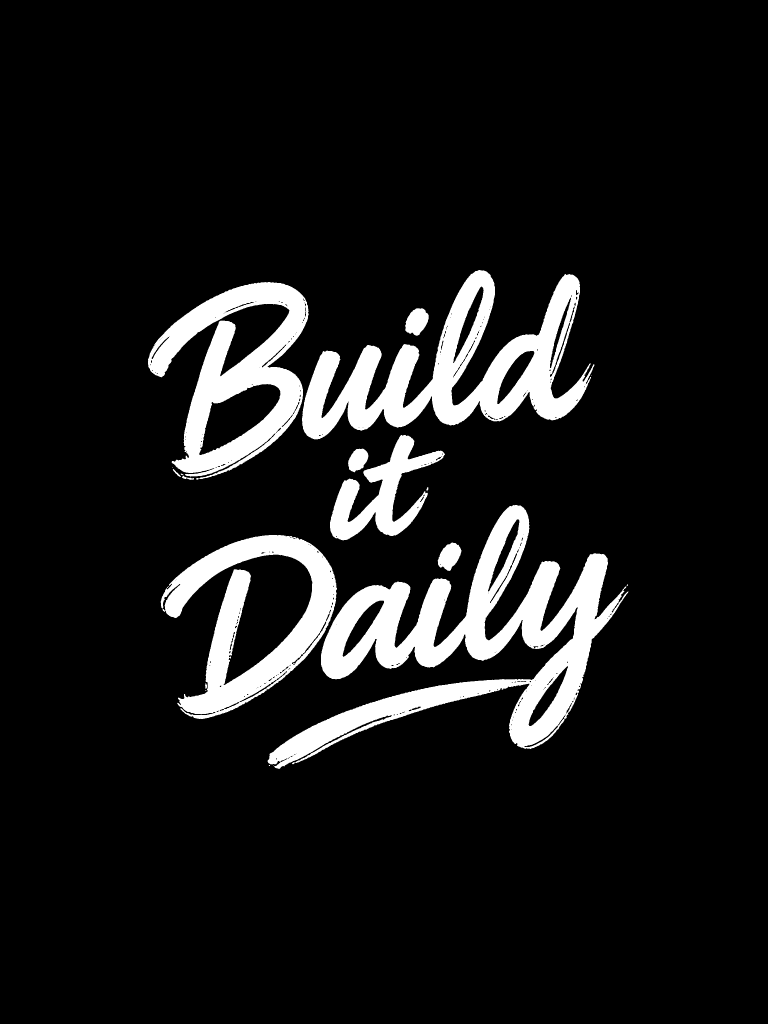
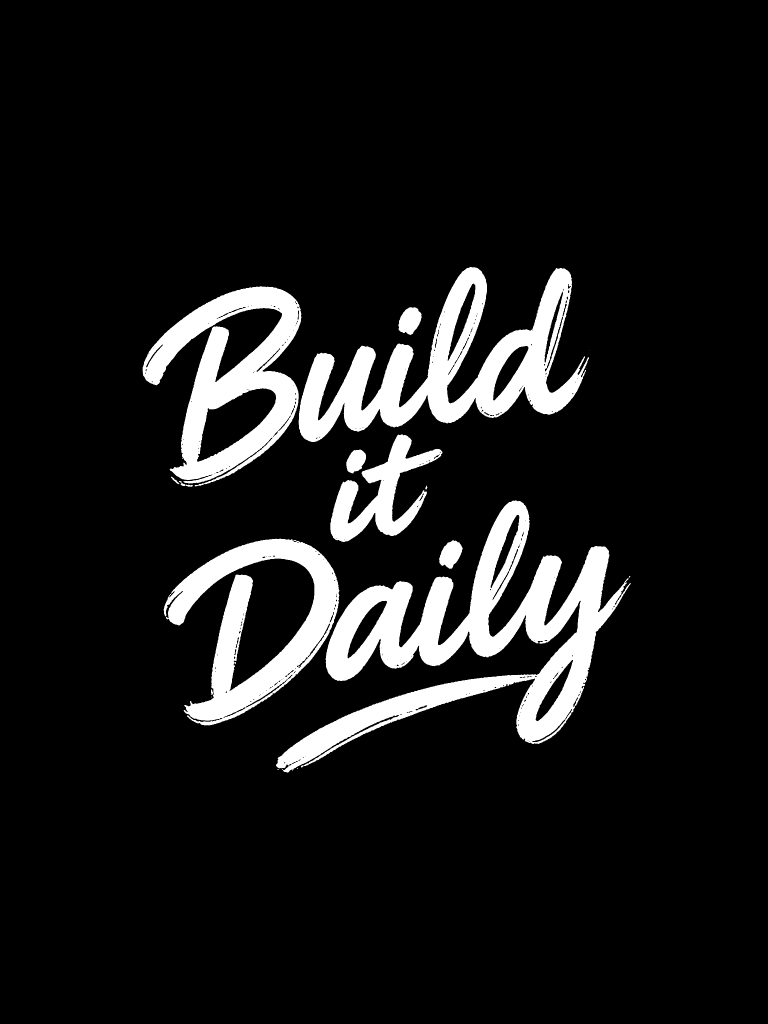
Lettering v1.2: ERNIE frasa_bentuk won (K7M+K8G clean 0/6 -> 6/6), ERNIE r1 -> r2; belajar b1.1 clean-image tie-break; 5b v1.2 SK01 re-measure (0/2 -> 2/2); standard + dashboard learning tables updated
Claude-Session: https://claude.ai/code/session_015DB7PEG43u43FyXo3Nejoh

Changed region(s): [[0.1875, 0.4688, 0.8125, 0.75], [0.2188, 0.25, 0.7812, 0.5312], [0.1875, 0.3125, 0.2188, 0.375]]

diff --git a/designs/lettering-v1/pembina.py b/designs/lettering-v1/pembina.py
@@ -27,8 +27,8 @@ DAFTAR = {
                     status="diuji: K3H, CPU, 3 seed", sumber="kad model BFL (rasmi); panduan BFL (lemah)"),
     "zturbo": dict(nama="Z-Image Turbo", bahagian="3.5", rev="r1", tarikh="2026-11-26",
                    status="diuji: K3H, CPU, 3 seed", sumber="pasukan Z-Image di Hugging Face + pe.py (rasmi)"),
-    "ernie": dict(nama="ERNIE-Image-Turbo", bahagian="3.6", rev="r1", tarikh="2026-11-26",
-                  status="diuji: K3H, CPU, 3 seed", sumber="dokumen diffusers + kad model (rasmi)"),
+    "ernie": dict(nama="ERNIE-Image-Turbo", bahagian="3.6", rev="r2", tarikh="2026-11-28",
+                  status="diuji: K3H, CPU, 3 seed; r2: K7M + K8G, CPU, 3 seed", sumber="dokumen diffusers + kad model (rasmi)"),
     "moss": dict(nama="MOSS-Image SFT + LoRA 8 langkah", bahagian="3.7", rev="r1", tarikh="2026-11-26",
                  status="diuji: K3H, CPU, 3 seed", sumber="kad model + panduan MOSS (rasmi); kad LoRA (pihak ketiga)"),
     "klein3": dict(nama="FLUX 3 Image Klein", bahagian="3.8", rev="r1", tarikh="2026-11-27",
@@ -43,7 +43,7 @@ MODEL = list(REV)
 W, H = 768, 1024
 # Ubahan CALON kitaran QC (langkah 5): hanya hidup bila dinamakan dalam PEMBINA_UJI (dipisah koma). Ubahan yang
 # berjaya ditulis balik ke aturan (rev naik) dan dibuang dari sini; yang gagal dicatat dalam standard dan dibuang.
-# Calon semasa: ernie_frasa_bentuk (K7M, K8G) (28 Nov 2026). ('ernie_kotak_positif' 28 Nov: K11N kotak 0/3 -> 3/3 tetapi K12Y 3/3 -> 0/3, kalah, dibuang.) (27 Nov 2026: 'zturbo_had_positif' pada K9B 1/3 -> 1/3 dan 'ernie_had_positif' pada K11N 2/3 -> 2/3, kalah, dibuang.) (26 Nov 2026: 'zturbo_satu_baris' diuji pada K8G, tidak berjaya, dibuang.)
+# Calon semasa: tiada. ('ernie_frasa_bentuk' 28 Nov: MENANG, ditulis ke aturan ERNIE r2.) ('ernie_kotak_positif' 28 Nov: K11N kotak 0/3 -> 3/3 tetapi K12Y 3/3 -> 0/3, kalah, dibuang.) (27 Nov 2026: 'zturbo_had_positif' pada K9B 1/3 -> 1/3 dan 'ernie_had_positif' pada K11N 2/3 -> 2/3, kalah, dibuang.) (26 Nov 2026: 'zturbo_satu_baris' diuji pada K8G, tidak berjaya, dibuang.)
 # Nama calon = <model>_<id pilihan> daripada belajar.py (KELAS), cth. zturbo_had_positif; belajar.py memutuskan menang / kalah (3.15).
 UJI = {u for u in os.environ.get("PEMBINA_UJI", "").split(",") if u}
 SATU = ["one", "two", "three", "four", "five", "six", "seven", "eight", "nine", "ten", "eleven", "twelve"]
@@ -190,8 +190,8 @@ def ernie(m):
          f"{cap(SATU[m['n'] - 1])} stacked lines in {b['bentuk']} in the center" +
          (f" that {b['condong']}" if b.get("condong") else "") + ": " + "; ".join(butir) + "."]
     s += tambahan(b)
-    if "ernie_frasa_bentuk" in UJI:  # calon belajar 3.15 (28 Nov 2026, diluluskan pengguna): huruf berus nipis / kering (K7M, K8G)
-        s.append("Every letter is drawn with a thick, heavy, fully filled stroke, never thin, scratchy or dry-brushed.")
+    # r2 (28 Nov 2026, 3.15 menang: K7M + K8G bersih 0/6 -> 6/6, lulus 6/6 -> 6/6): ayat ketebalan huruf (blok I).
+    s.append("Every letter is drawn with a thick, heavy, fully filled stroke, never thin, scratchy or dry-brushed.")
     s.append(f"Only these {SATU[m['nw'] - 1]} words, no other text, pure black and white, "
              f"{', '.join('no ' + x for x in b['tiada'])}, {b['gaya']} style, {b['margin']}.")
     return " ".join(s)

diff --git a/designs/lettering-v1/skrip/betulkan.py b/designs/lettering-v1/skrip/betulkan.py
@@ -22,7 +22,7 @@ import SK02_ruang_tepi
 import SK03_kedudukan
 import SK04_hitam_putih
 
-VERSI = "5b v1.1"
+VERSI = "5b v1.2"
 
 
 def betulkan(rgb, ruj, had=asas.HAD):
@@ -33,6 +33,15 @@ def betulkan(rgb, ruj, had=asas.HAD):
         if m is not None:
             M = m @ M
             semasa = asas.lukis(rgb, M, halus=False)
+            # 5b v1.2 (28 Nov 2026, Belajar SK: BAIKI SK01): ukur semula selepas putar dan betulkan baki, paling banyak
+            # 2 kali lagi. Ukuran pertama boleh tersasar (K7M s123 15.5 di had julat; klein3 K9B s123 12.1 -> 13.4).
+            for _ in range(2 if sk is SK01_condong else 0):
+                m2, c2 = sk.matriks(asas.ukur(semasa), ruj, had)
+                if m2 is None:
+                    break
+                M = m2 @ M
+                semasa = asas.lukis(rgb, M, halus=False)
+                cat.setdefault("ulang_putar", []).append(c2["putar_darjah"])
     ubah = any(t["jalan"] for t in tindakan.values())
     hasil = asas.lukis(rgb, M) if ubah else rgb
     hasil, tindakan["SK04"] = SK04_hitam_putih.betul(hasil, ruj, had, selepas_ubah=ubah)

diff --git a/designs/lettering-v1/belajar.py b/designs/lettering-v1/belajar.py
@@ -202,7 +202,10 @@ def stat(rows):
 
 
 def skor(rows):
-    return (sum(r["lulus"] for r in rows), sum(r["suka"] for r in rows))
+    # (lulus, ♥, bersih). Bersih = lulus tanpa kelas cacat prompt; pemecah seri supaya ubahan bagi cacat yang tidak
+    # menggagalkan imej (cth. bentuk huruf, "imej lulus; ciri gaya kad") boleh menang (pembaikan 28 Nov 2026).
+    return (sum(r["lulus"] for r in rows), sum(r["suka"] for r in rows),
+            sum(r["lulus"] and not r["kelas"] for r in rows))
 
 
 def banding(a, b):
@@ -215,7 +218,7 @@ def banding(a, b):
 
 
 def nisbah(s, n):
-    return f"{s[0]}/{n}" + (f" (♥ {s[1]})" if s[1] else "")
+    return f"{s[0]}/{n}" + (f" (♥ {s[1]})" if s[1] else "") + f", bersih {s[2]}"
 
 
 def ulasan(model, rows, ubahan):

diff --git a/docs/lettering-standard.md b/docs/lettering-standard.md
@@ -145,14 +145,15 @@ Dipakai untuk model tanpa aturan sendiri, dan sebagai pembanding dalam ujian kel
 - **Tetapan:** GGUF Q8_0, 9 langkah, guidance 0.0, tiada penambah prompt.
 - **Cacat diketahui (r1):** percikan hanya di kanan label; ruang tepi sempit (dibetulkan skrip, 5b). Rangka am juga lulus ejaan 3/3, jadi aturan ini mengemaskan hiasan, bukan ejaan.
 
-### 3.6 Aturan ERNIE-Image-Turbo (rev r1)
+### 3.6 Aturan ERNIE-Image-Turbo (rev r2)
 - **Sumber:** dokumen diffusers: penambah prompt (PE) hidup secara lalai dan "may reduce instruction-following accuracy" (rasmi). Kad model: skor teks OneIG-EN 0.9488 tanpa PE lawan 0.9666 dengan PE; GENEval keseluruhan 0.8667 tanpa PE lawan 0.8510 dengan PE (rasmi).
 - **Dua peringkat:** (a) pembina menulis prompt mentah yang pendek; (b) PE rasmi mengembangkannya; imej dijana daripada prompt yang dikembangkan.
 - **Prompt mentah, satu perenggan pendek (contoh yang lulus: 94 perkataan):**
   1. Blok A: `A black and white hand-lettering quote poster, portrait.`
   2. Blok B: `Solid black background, white lettering.`
   3. Blok C, kemudian titik bertindih, kemudian blok D + E + F sebagai senarai dipisah koma bernoktah, satu butir setiap baris, bentuk `"PERKATAAN" in <frasa bentuk huruf>`: `Five stacked lines in one tight centered block that tilts up to the right: "PATIENCE" in huge heavy condensed bold sans-serif capitals; "Builds" in large bold brush script; …`
-  4. Blok H + G: `Only these five words, no other text, pure black and white, flat vector style, wide black margins.`
+  4. Blok I (r2, 28 Nov 2026): `Every letter is drawn with a thick, heavy, fully filled stroke, never thin, scratchy or dry-brushed.`
+  5. Blok H + G: `Only these five words, no other text, pure black and white, flat vector style, wide black margins.`
 - **PE dijalankan SEKALI bagi setiap prompt, seed 42.** Hasil yang sama dipakai untuk semua seed imej, supaya seed hanya mengubah imej, bukan prompt. PE boleh menulis dalam bahasa Cina; itu dibenarkan.
 - **Semakan WAJIB pada hasil PE sebelum jana:** setiap perkataan Spesifikasi Teks ada, ejaan dan huruf besar / kecil tepat; turutan baris sama; tiada perkataan Latin lain dalam petikan. PE boleh menyebut semula sesuatu perkataan sebagai rujukan (contoh K3H: 'PATIENCE' dua kali); itu dibenarkan.
 - **Jika semakan gagal:** jalankan PE semula dengan seed 7, kemudian 123. Masih gagal: PE dimatikan, rangka am (3.3) dipakai, dan hal ini direkod.
@@ -365,7 +366,8 @@ Tempat menyimpan aturan model baharu yang ditulis ikut 3.12 (3.14.1, 3.14.2, …
 - **Cacat berulang** = kelas yang sama pada sekurang-kurangnya 2 imej, sama ada pada 2 design atau lebih, atau pada 2 seed atau lebih dalam satu design. Bagi ejaan: hanya jika PERKATAAN yang sama salah.
 - **Satu ubahan setiap kali** bagi setiap model. Cacat yang membuat imej gagal didahulukan; cacat gaya pada imej yang lulus kemudian.
 - **Tiada ulangan:** ubahan yang pernah dicuba (`ubahan.json`) tidak dicuba lagi. "Huruf besar" dilangkau jika perkataan yang salah sudah huruf besar.
-- **Menang** = lebih banyak imej lulus pada kad, ayat dan seed yang sama, tanpa kelas cacat baharu. Seri dipecahkan oleh bilangan ♥.
+- **Menang** = lebih banyak imej lulus pada kad, ayat dan seed yang sama, tanpa kelas cacat baharu. Seri dipecahkan oleh bilangan ♥, kemudian bilangan imej **bersih** (lulus tanpa kelas cacat prompt). Pemecah seri kedua ditambah 28 Nov 2026 (b1.1): tanpanya ubahan bagi cacat yang tidak menggagalkan imej (bentuk huruf) tidak boleh menang.
+- **Cacat pepijat kod** (nota QC mengandungi "pepijat kod"): tidak dikira sebagai cacat prompt (28 Nov 2026).
 - **Had 3.1 kekal:** ubahan hanya mengubah cara menulis; ia tidak boleh menambah atau membuang ciri gaya kad.
 - **Log jana** mencatat `rev` dan `uji` (ubahan calon) bagi setiap imej (`gen.py`). Pusingan kitaran QC lama (batch `-p1`) tanpa `uji` dipadankan dengan `ubahan.json`.
 
@@ -606,6 +608,7 @@ Setiap ubahan SK direkod di sini dan dalam `designs/lettering-v1/belajar/sk_ubah
 
 | Tarikh | SK | Ubahan | Kelas cacat | Versi | Keputusan | Bukti |
 |---|---|---|---|---|---|---|
+| 28 Nov 2026 | SK01 (5b) | `ukur_semula`: selepas SK01 memutar, blok diukur semula dan baki sudut dibetulkan, paling banyak 2 kali lagi (`betulkan.py`) | condong (ukuran pertama tersasar) | 5b v1.1 → v1.2 | MENANG | 2 imej: 0/2 → 2/2 (klein3 K9B s123 13.4 → 15.2; ERNIE K7M s123 0.0 → 13.6, ukuran pertama 15.5 di had julat); semakan mata. Bukti lemah |
 | 27 Nov 2026 | SK06 | `tekstur_marker`: jenis tekstur marker, parameter diukur pada gambar upload kad, dijana pada skala rujukan | tekstur (jenis kad K8) | v1.2 → v1.3 | MENANG | K8G diukur = IMG_5735 (5.93 / 5.22 / 4.68; v1.2: 1.67 / 1.13); K3K, K7M sama piksel. Had: tepi marker kering tidak diukur (JPEG kecil). Bukti lemah |
 | 27 Nov 2026 | SK06 | `tepi_kad`: ruang tepi setiap saiz poster ikut kad (asas.rujukan, seperti SK02), diukur pada blok tulisan | ruang tepi (parameter kad) | v1.1 → v1.2 | MENANG | 3 imej: diukur = kad dalam 0.1 mata (v1.1 lari sehingga 5.8); tiada terpotong; 16 kemasan dijana semula. Bukti lemah |
 | 27 Nov 2026 | SK06 | `tekstur_kad`: tekstur dibaca daripada kad (`--kad`); bahagian tanpa jenis = amaran + ganti gaya daripada gambar yang sama | tekstur (parameter kad) | v1 → v1.1 | MENANG | 3 imej: 3/3 → 3/3, jurang tertutup; K3K, K8G sama piksel; K7M butir halus (dilihat pada 300 DPI). Bukti lemah |
@@ -719,6 +722,7 @@ Model baharu juga memerlukan aturan prompt sendiri sebelum dipakai untuk design 
 
 - **Dua pepijat dibaiki semasa larian:** (1) `kad.hitam_putih` menukar latar cerah (krim / putih) kepada putih, jadi rangka am hp menulis huruf putih atas putih (ERNIE K9B berongga selepas SK04); kini kad latar cerah = latar hitam, dakwat putih, kotak putih dengan huruf hitam (`terang`, `kotak_hp`). (2) `semak_pe` menolak PE ERNIE apabila petikan hanya hilang tanda baca hujung ('SHAKY' bagi 'SHAKY.'), lalu rangka am berpepijat dipakai; kini diterima. K9B tetap ditolak dengan betul (PE memetik huruf 'B').
 - **Belajar (3.15):** Z-Image `had_positif` pada K9B KALAH (1/3 → 1/3), dibuang. klein 4B: `huruf_besar` dan `tukar_peranan` tidak berkenaan (K9 skrip bersambung; 'HUMBLE.' sudah huruf besar; tukar peranan mengubah design), jadi pilihan habis → tukar model: FLUX 3 Klein dan MOSS lulus 3/3 pada K9B dan K12Y. ERNIE `had_positif` (tanda petikan tambahan, K3K + K11N) diuji pada K11N: KALAH ikut G1–G2 (2/3 → 2/3; tanda petikan 'BEGIN' kekal pada s7), dibuang. Catatan bukti lemah: kotak di tempat betul ('SHAKY.' sahaja) 3/3, sebelum 0/3; PE berubah setiap kali, jadi sebab belum pasti. Cacat akibat pepijat kod yang sudah dibaiki kini tidak dikira oleh `belajar.py` ("pepijat kod" dalam nota QC).
+- **Selepas larian (28 Nov 2026, keputusan pengguna):** kad K9–K12 diluluskan (v1.0); kad K10 tambah ciri QC wajib "Tiada panel atau kotak putih di sekeliling blok"; 76 imej disimpan di AI Image Test (ujian U16). Uji ulang ERNIE kotak: kalah. Uji ERNIE frasa bentuk (K7M, K8G): menang, ERNIE r1 → r2. SK01: 5b v1.2.
 - **Kemasan (SK06, hitam putih):** FLUX 3 Klein seed 42 bagi setiap design: K9B S3, K10V S5 (lusuh), K11N S3, K12Y S3 (`final/v12b-cpu/`, helaian `qc/v12b_cpu_akhir.jpg`).
 - **Model × kad selepas larian ini (bukti lemah):** K9 = MOSS, ERNIE, FLUX 3 Klein; K10 = semua lima (ERNIE 1/3); K11 = MOSS, FLUX 3 Klein, Z-Image (2/3); K12 = MOSS, ERNIE, FLUX 3 Klein, Z-Image (2/3).
 
@@ -737,6 +741,8 @@ Setiap ubahan aturan (3.4–3.10) direkod di sini, dan juga dalam `designs/lette
 | 27 Nov 2026 | FLUX 3 Image Klein | r0 → r1 (ujian kelayakan, `belajar.py`) | K8 × ayat G: 'KEEP GOING' tanpa jarak antara perkataan (3/3) | Tiada ubahan teks; rangka am lawan aturan 3.8 pada kad, ayat dan seed yang sama | rangka am 6/9 → aturan 9/9 |
 | 27 Nov 2026 | Z-Image Turbo | r1 (tiada perubahan) | K9 × ayat B: koma tambahan selepas 'Build' / 'Daily' (2/3) | Ayat had: "written exactly as quoted, character for character, with nothing added after any word". TIDAK berjaya, dibuang | 1/3 → 1/3 |
 | 27 Nov 2026 | ERNIE Turbo | r1 (tiada perubahan) | K11 × ayat N: tanda petikan pada 'BEGIN' (s7); kotak di tempat salah | Ayat had positif: "The only text in the image is these N words, each drawn once exactly as written between the quotes, without the quote marks". TIDAK berjaya (G1–G2), dibuang; kotak betul 3/3 (sebelum 0/3) | 2/3 → 2/3 |
+| 28 Nov 2026 | ERNIE Turbo | r1 (tiada perubahan) | K11 × ayat N: kotak di tempat salah (ujian pembaikan kotak, arahan pengguna) | Ayat had positif yang sama, diuji pada K11N + K12Y. TIDAK berjaya: kotak K11N 0/3 → 3/3 tetapi K12Y 3/3 → 0/3 (kotak 'GROWTH' jadi garis luar). Dibuang | 5/6 → 5/6 |
+| 28 Nov 2026 | ERNIE Turbo | r1 → r2 | K7 × ayat M, K8 × ayat G: huruf berus nipis / kering (6/6, imej lulus) | Blok I: "Every letter is drawn with a thick, heavy, fully filled stroke, never thin, scratchy or dry-brushed." MENANG: huruf tebal penuh 6/6; K8G latar bersih | lulus 6/6 → 6/6, bersih 0 → 6 |
 
 ## Belum selesai
 - v1.2, sudah dibina (26 Nov): pembina kod bagi tujuh model + semakan 3.11 (`pembina.py`, 3.13).
